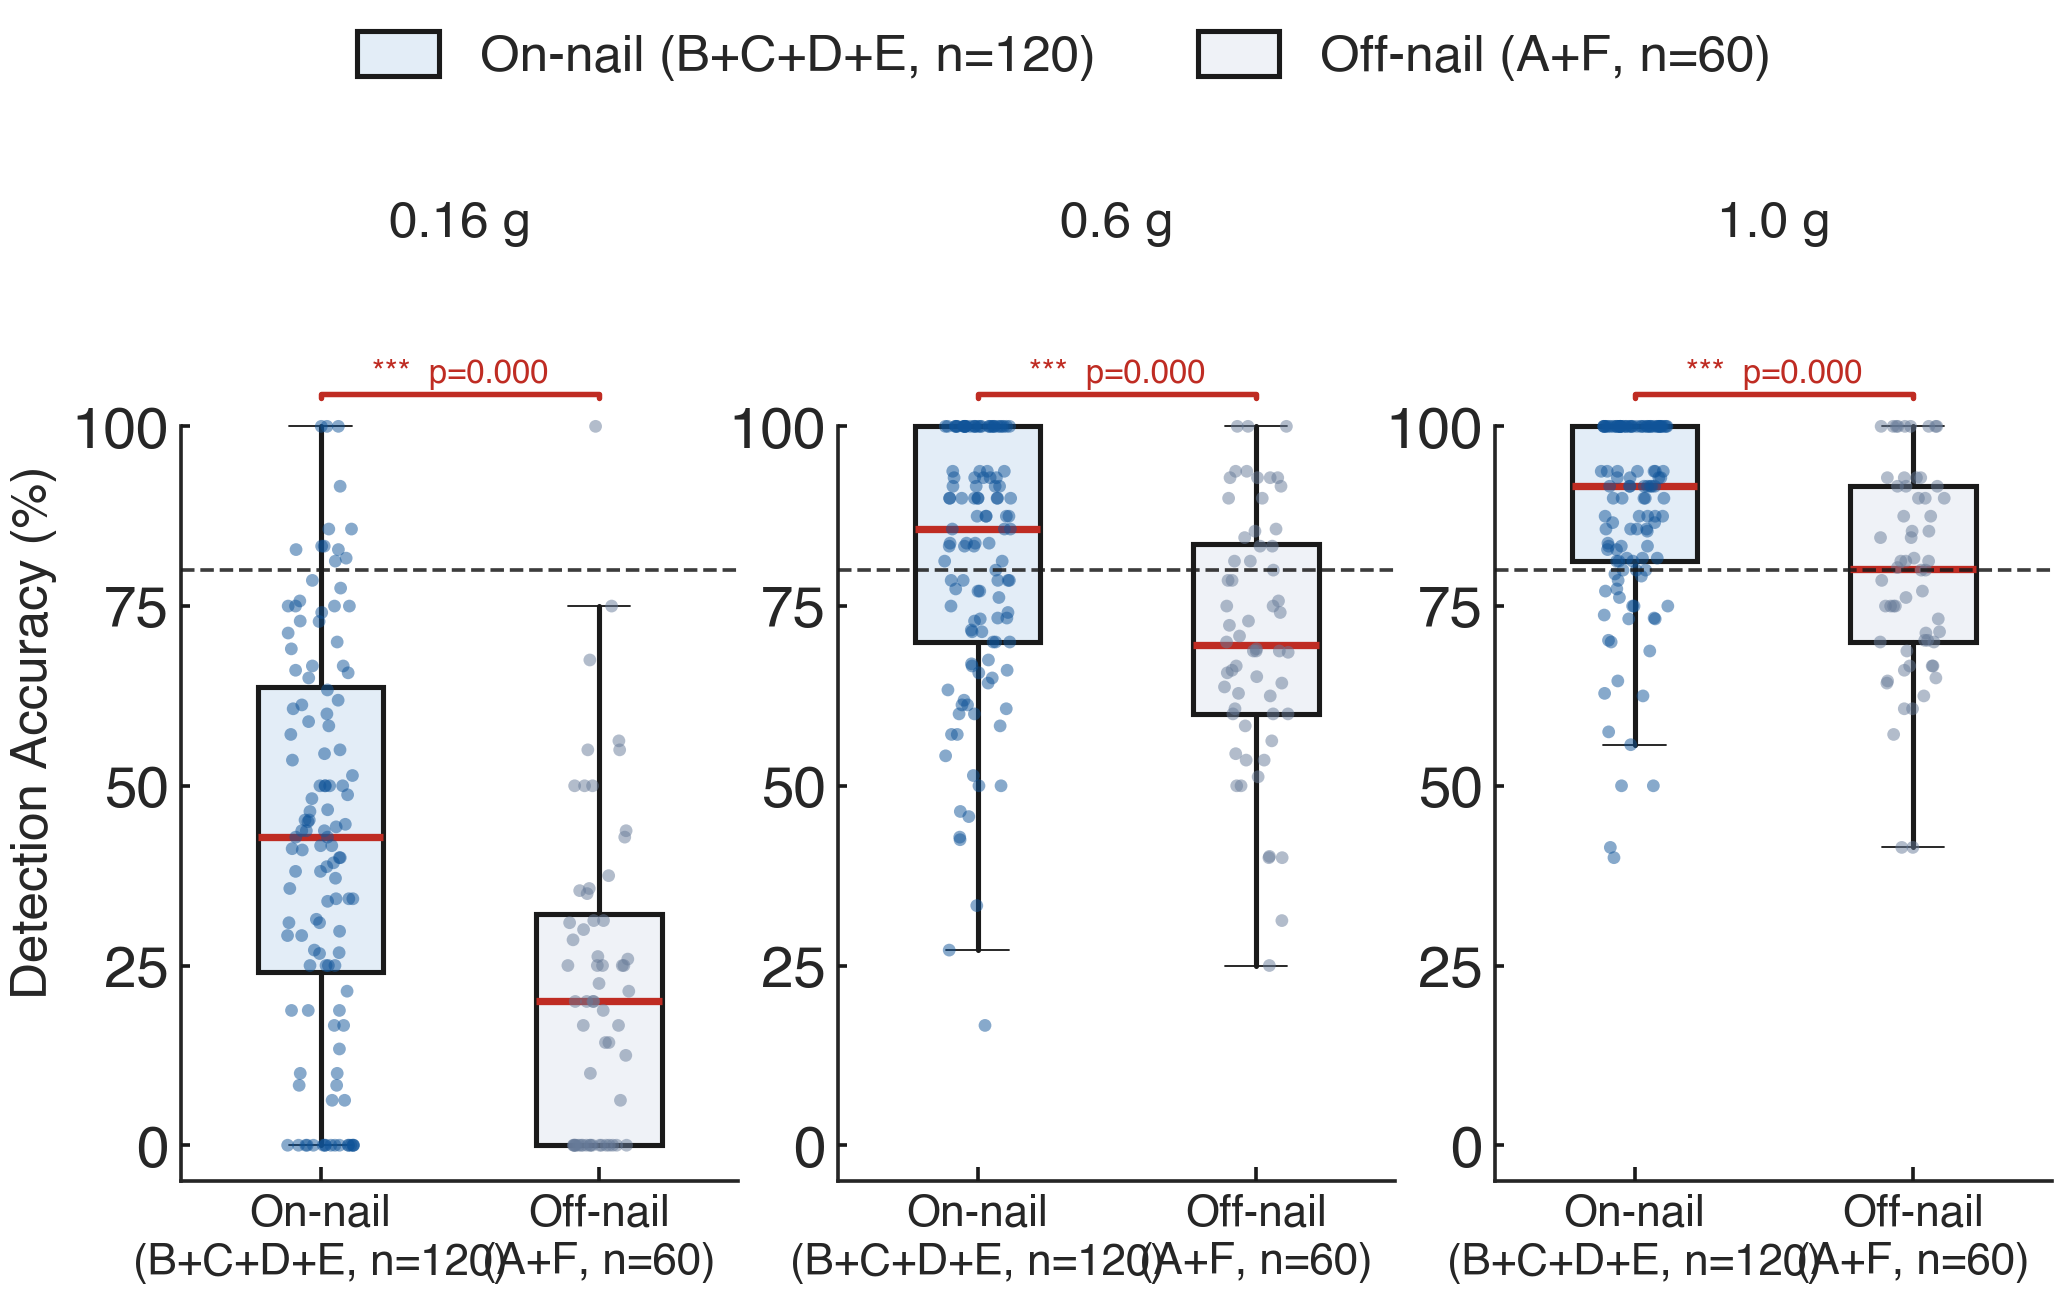
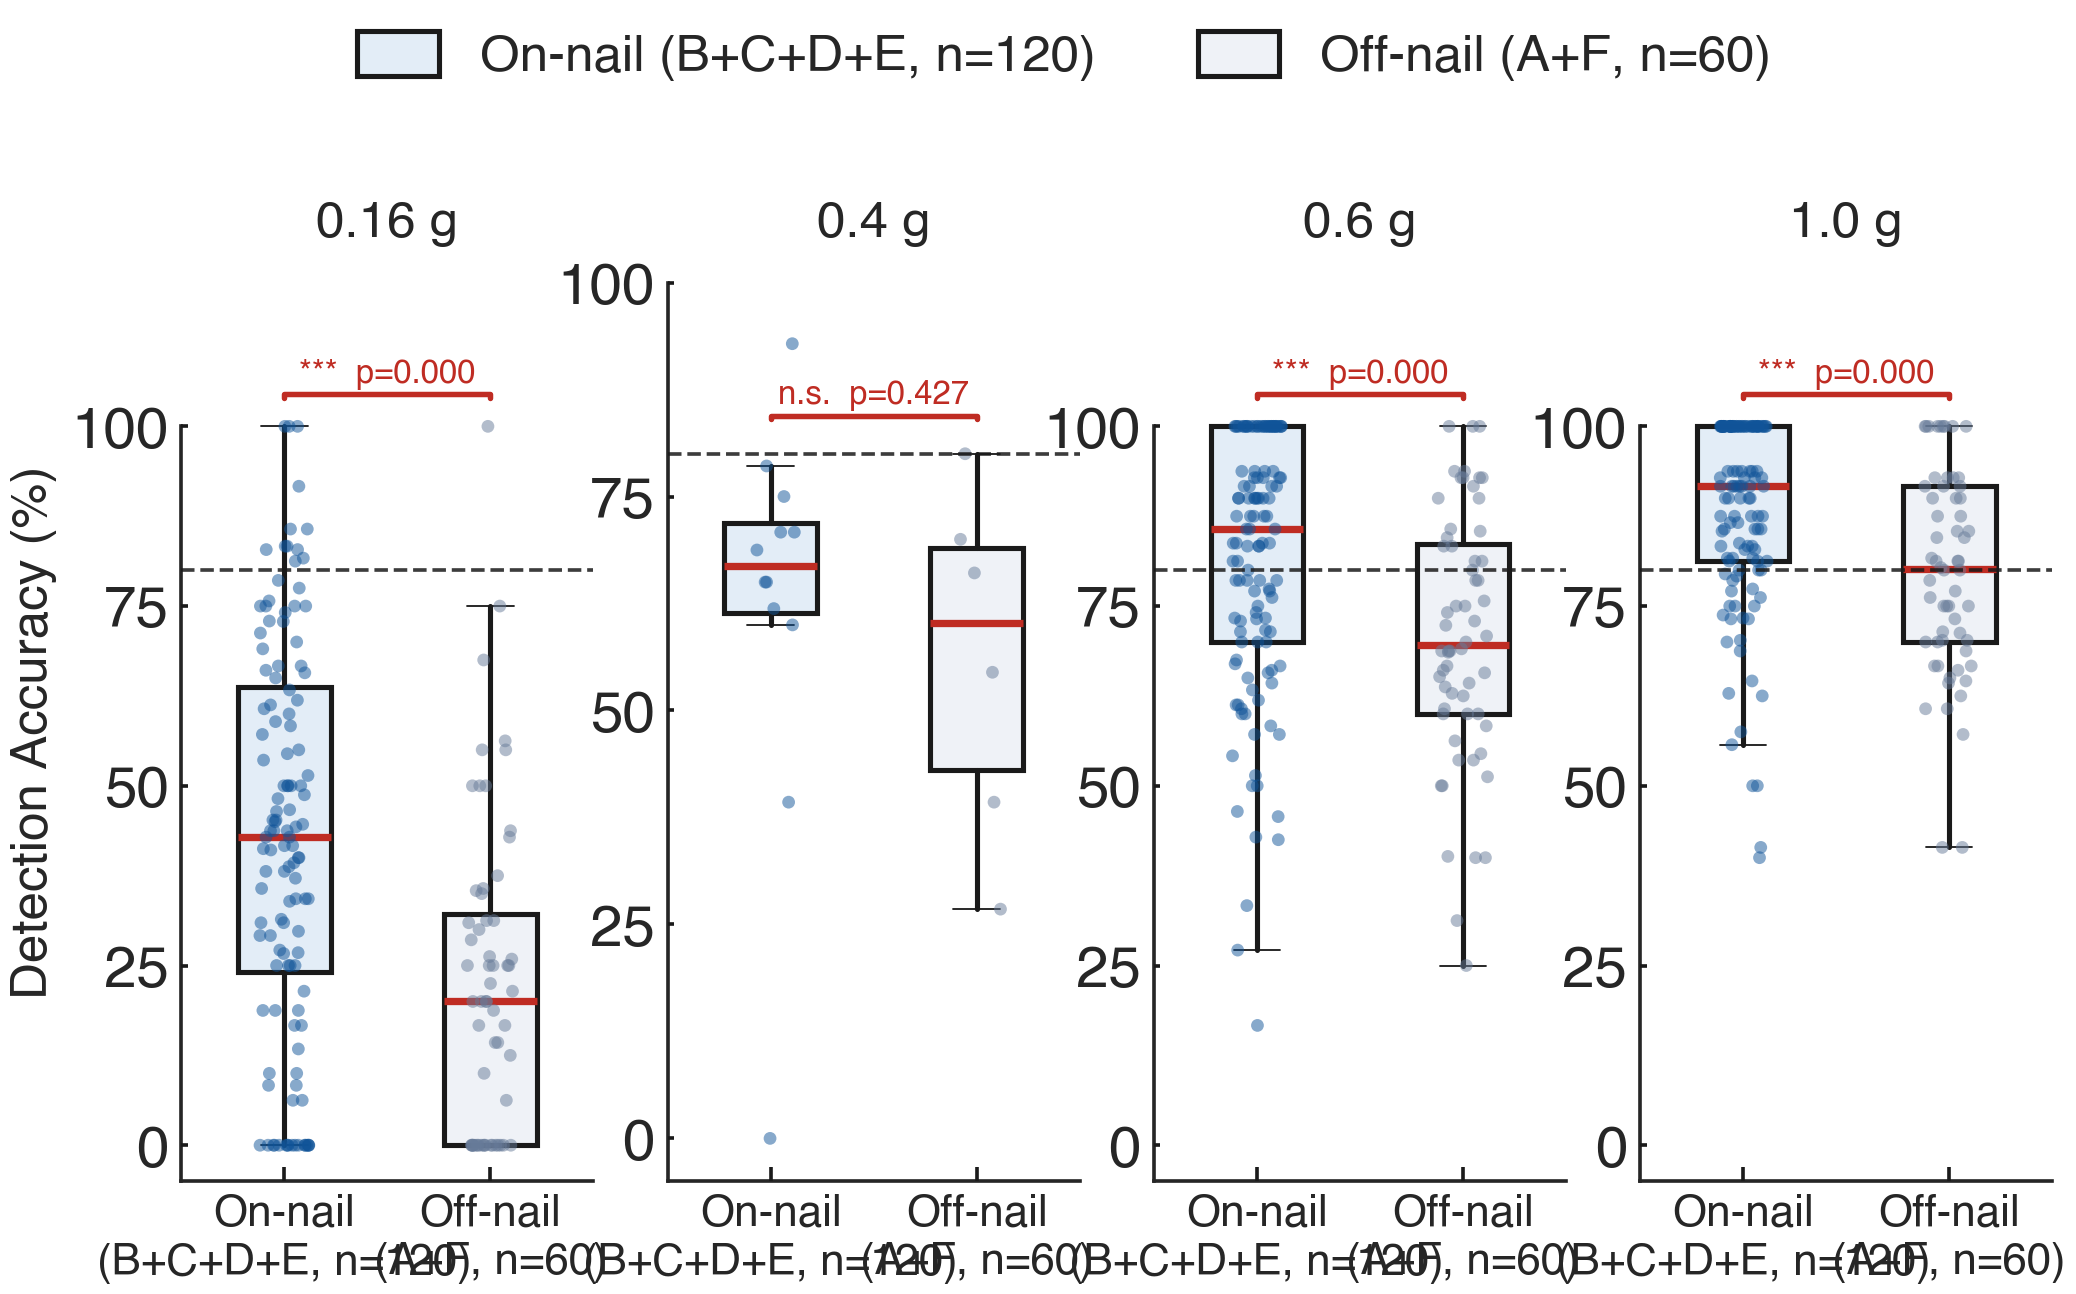
updates

diff --git a/(New)Analysis/ATDAnalysis/ATD_C1_Fig(Anika).py b/(New)Analysis/ATDAnalysis/ATD_C1_Fig(Anika).py
@@ -1128,6 +1128,12 @@ df_raw = df_raw[df_raw["Condition"] != "On-touch (Soft)"]
 df_raw = df_raw[df_raw["Area"].isin(["A", "B", "C", "D", "E", "F"])].copy()
 df_raw["Force_Val"] = df_raw["Force"].str.extract(r"(\d+\.?\d*)").astype(float)
 
+# P61, P62, P63: only include 0.4 g data (partial-protocol participants)
+_PARTIAL_SUBJ = {"P61", "P62", "P63"}
+_is_partial = df_raw["SubjectID" if "SubjectID" in df_raw.columns else "Subject"].isin(_PARTIAL_SUBJ)
+df_raw = df_raw[~_is_partial | (df_raw["Force_Val"] == 0.4)].copy()
+print(f"After partial-subject filter: {len(df_raw)} rows")
+
 SUBJECT_COL = "SubjectID" if "SubjectID" in df_raw.columns else "Subject"
 n_subjects = df_raw[SUBJECT_COL].nunique() if SUBJECT_COL in df_raw.columns else len(all_files)
 
@@ -1469,11 +1475,7 @@ def export_fig3_10559A_2col_v2(scatter_brightness=SCATTER_HSB_BRIGHTNESS, **pale
 
 
 def export_fig3_future_0p4g(scatter_brightness=SCATTER_HSB_BRIGHTNESS, **pale_box_kw):
-    """Future figure: adds placeholder 0.4 g periungual data (triangles) + Kao 0.4 g.
-
-    Synthetic 0.4 g scores (n=30, seeded) have median < 80% to represent expected
-    performance between the 0.16 g and 0.6 g conditions.
-    """
+    """Figure 3 extended to 0.4 g: uses real P61/P62/P63 data at 0.4 g (triangles) + Kao 0.4 g."""
     # --- Kao data extended to include 0.4 g ---
     kao_rows_ext = []
     for force, vals in KAO_PAINT_RAW.items():
@@ -1487,23 +1489,8 @@ def export_fig3_future_0p4g(scatter_brightness=SCATTER_HSB_BRIGHTNESS, **pale_bo
                 })
     df_kao_ext = pd.DataFrame(kao_rows_ext)
 
-    # --- Synthetic 0.4 g this-study data: 30 participants, median ~ 70% ---
-    participant_ids = sorted(df_raw[SUBJECT_COL].unique())
-    rng_mock = np.random.default_rng(404)
-    mock_scores = np.clip(rng_mock.beta(4.0, 2.2, len(participant_ids)) * 100, 0, 100)
-    mock_rows = []
-    for pid, score in zip(participant_ids, mock_scores):
-        mock_rows.append({
-            "Force_Val":  0.4,
-            "Score":      score,
-            "Condition":  "On-touch (Mid)",
-            SUBJECT_COL:  pid,
-        })
-    df_mock = pd.DataFrame(mock_rows)
-
-    # Combine real On-touch data + synthetic 0.4 g rows
-    df_peri_real = df_raw[df_raw["Condition"] == "On-touch (Mid)"].copy()
-    df_peri_combined = pd.concat([df_peri_real, df_mock], ignore_index=True)
+    # Real On-touch data; df_raw already filtered so P61/P62/P63 contribute only 0.4 g
+    df_peri_combined = df_raw[df_raw["Condition"] == "On-touch (Mid)"].copy()
 
     plot_kao_vs_periungual(
         df_peri_combined,

diff --git a/(New)Analysis/ATDAnalysis/ATD_aggregate.py b/(New)Analysis/ATDAnalysis/ATD_aggregate.py
@@ -867,6 +867,12 @@ else:
 
     df["Relative_Score"] = df.apply(calc_relative_score, axis=1)
 
+    # P61, P62, P63: partial-protocol — only 0.4 g data should be included
+    _PARTIAL_SUBJ = {"P61", "P62", "P63"}
+    _is_partial = df[sub_col].isin(_PARTIAL_SUBJ)
+    df = df[~_is_partial | (df["Force_Val"] == 0.4)].copy()
+    print(f"After partial-subject filter: {len(df)} rows")
+
     all_forces = sorted(df["Force_Val"].unique())
     plot_forces = [f for f in all_forces if f not in EXCLUDE_FORCES]
     if not plot_forces:
@@ -1357,8 +1363,7 @@ else:
         ax6.yaxis.set_major_locator(FixedLocator(FIG5_Y_TICKS))
         ax6.tick_params(axis="y", labelsize=FONT_TICK)
         ax6.tick_params(axis="x", length=0)
-        y_top6 = min(FIG5_YLIM_TOP_CAP, max(tops_f.values()) + 20)
-        ax6.set_ylim(-5, y_top6)
+        ax6.set_ylim(-5, FIG5_YLIM_TOP_CAP)
         ax6.spines["left"].set_bounds(-5, FIG5_Y_AXIS_TOP)
         sns.despine(ax=ax6)
         add_inward_tick_guides(ax6, x_positions=[0, 1], y_ticks=FIG5_Y_TICKS)
